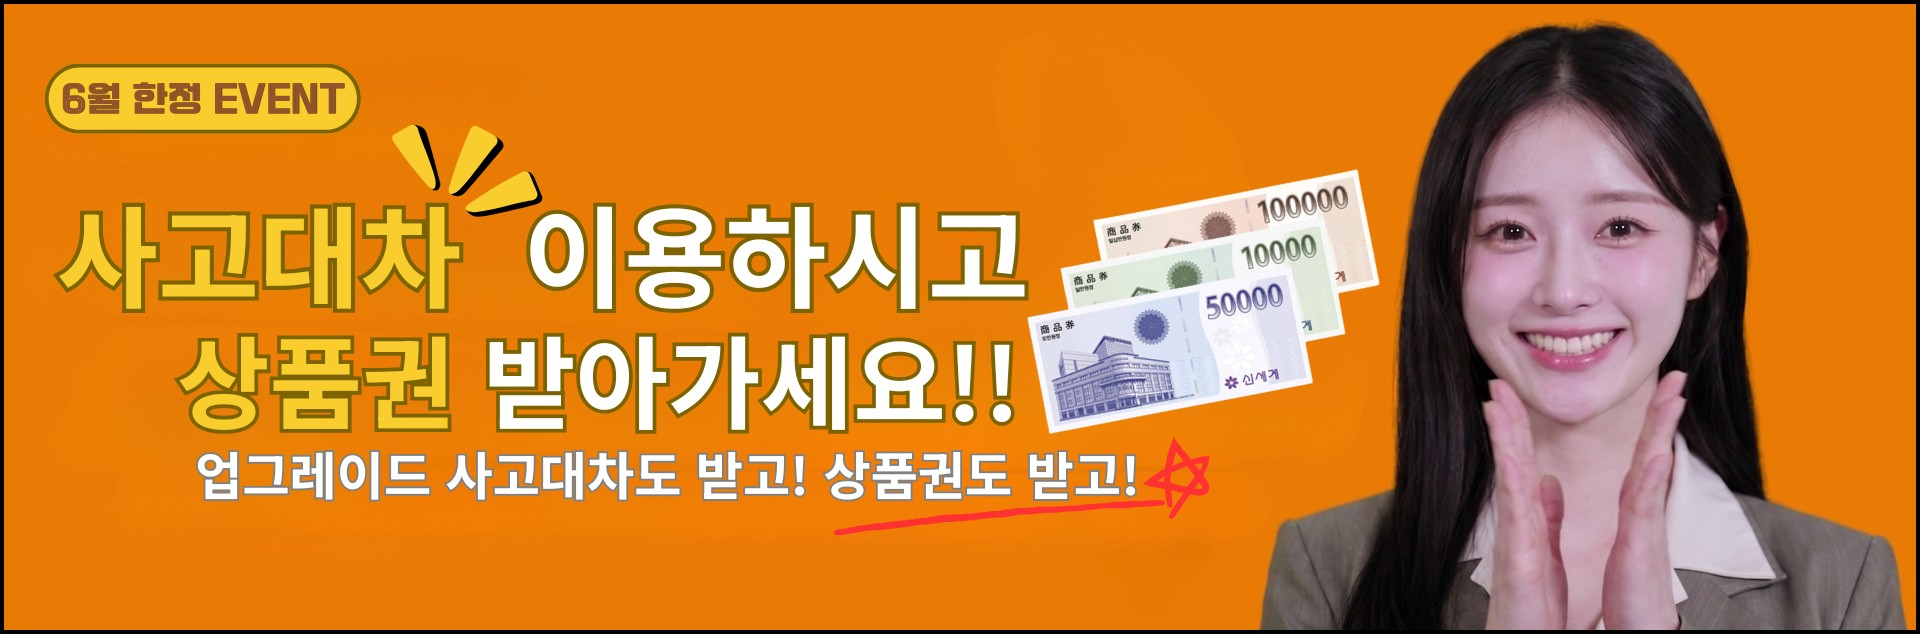
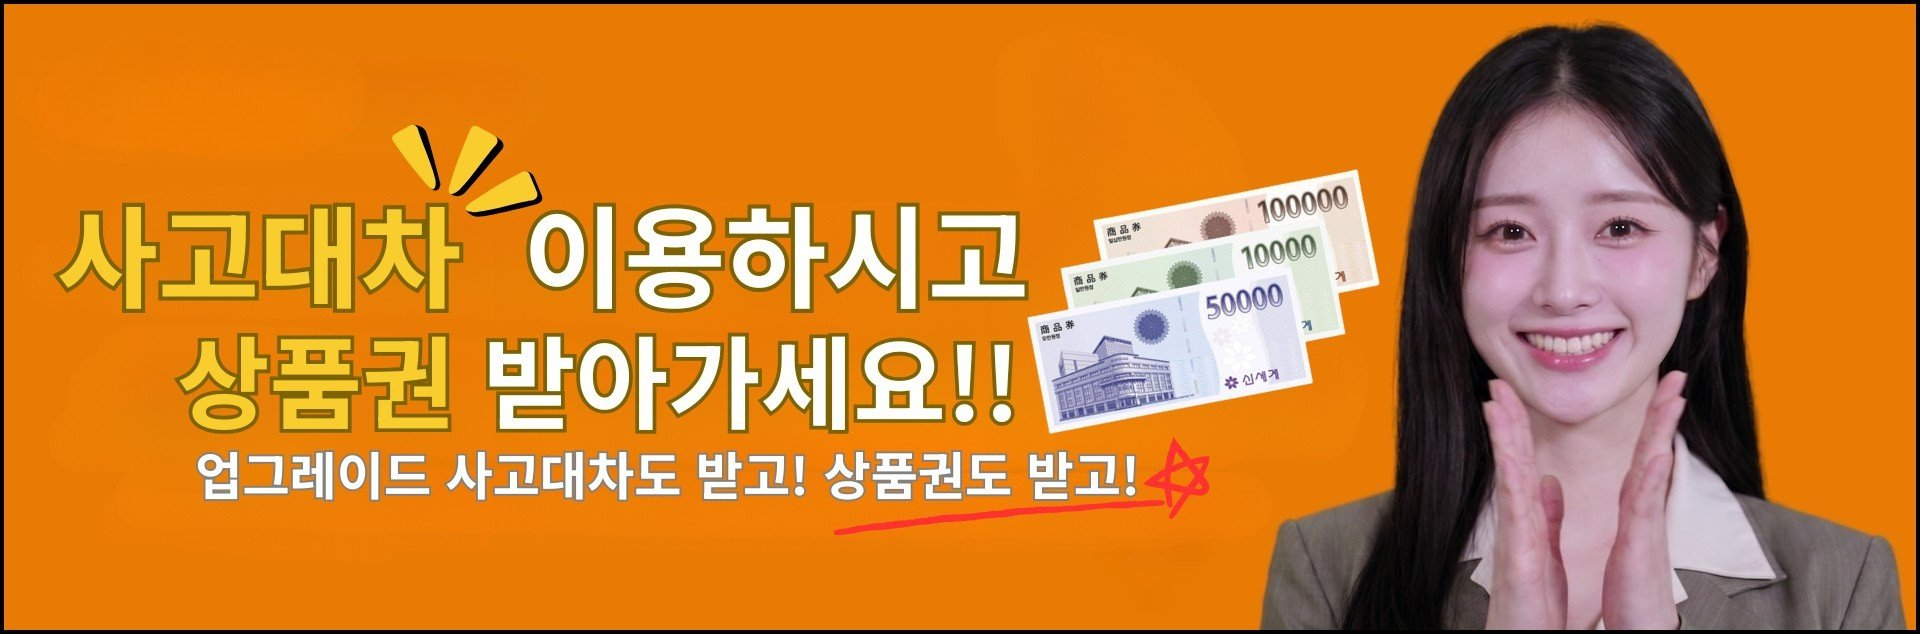
BMW 라인업 전면 교체: 실차 촬영 이미지 16대, 벤츠와 동일한 통일 카드로 개편
- 신규 실차 사진 16장 (Desktop\bmw) 을 750x500 통일 규격으로 재생성 (png+webp 16쌍)
  - 차량: contain 배치, 좌우 잔여 영역: 같은 사진 블러 배경(GaussianBlur 25 + 12% 어둡게)
  - 벤츠 작업(a9b0e96)과 동일한 파이프라인 재현
- 라인업: 5시리즈(화이트/블랙/그레이), 7시리즈(화이트/투톤), 420i, M3(화이트/블루),
  M4, M850, Z4(화이트/퍼플), X5, X6(화이트/블랙), X7 = 16대
- index.html BMW 섹션: 모델별 라벨 행 구조 제거 → 벤츠식 라벨 없는 카드 그리드(mr-multi + mr-name)로 통일
- 구형 BMW 이미지 48개 삭제 (M2/M5/840i/X3 등 라인업 제외 차종 포함), img/x5·bmw 7 등 구경로 정리
- 검증: 로컬 렌더에서 16카드 크기 단일값(152x101@390px), 이미지 16/16 로드, 참조 누락 0 확인

diff --git a/index.html b/index.html
@@ -255,7 +255,7 @@
       <div class="evt-modal-box">
         <button class="evt-close" type="button" aria-label="닫기">&times;</button>
         <div class="evt-card">
-          <div class="evt-hero"><img src="img/event-voucher.jpg" alt="6월 한정 이벤트 - 사고대차 이용하시고 상품권 받아가세요" loading="lazy"></div>
+          <div class="evt-hero"><img src="img/event-voucher.jpg" alt="사고대차 이용하시고 상품권 받아가세요 - 업그레이드 사고대차도 받고 상품권도 받고" loading="lazy"></div>
           <div class="evt-inner">
           <div class="evt-benefits">
             <div class="evt-b">
@@ -406,103 +406,29 @@
             <!-- BMW -->
             <h3 class="vehicle-section-title">BMW</h3>
 
-            <div class="model-row">
-                <h4 class="model-label">5시리즈</h4>
-                <div class="swiper modelSwiper"><div class="swiper-wrapper">
-                    <div class="swiper-slide"><div class="vehicle-card"><div class="vehicle-image"><img src="img/cars/520 신형.webp" alt="BMW 520 신형 화이트" loading="lazy"></div><div class="vehicle-info"><h3 class="vehicle-name">BMW 5시리즈</h3><p class="vehicle-description">화이트</p></div></div></div>
-                    <div class="swiper-slide"><div class="vehicle-card"><div class="vehicle-image"><img src="img/cars/520 신형 검정.webp" alt="BMW 520 신형 블랙" loading="lazy"></div><div class="vehicle-info"><h3 class="vehicle-name">BMW 5시리즈</h3><p class="vehicle-description">블랙</p></div></div></div>
-                </div></div>
-            </div>
-
-            <div class="model-row">
-                <h4 class="model-label">7시리즈</h4>
-                <div class="swiper modelSwiper"><div class="swiper-wrapper">
-                    <div class="swiper-slide"><div class="vehicle-card"><div class="vehicle-image"><img src="img/bmw 7.webp" alt="BMW 7 Series" loading="lazy"><span class="vehicle-badge badge-premium">프리미엄</span></div><div class="vehicle-info"><h3 class="vehicle-name">BMW 7 Series</h3><p class="vehicle-description">BMW의 철학</p></div></div></div>
-                </div></div>
-            </div>
-
-            <div class="model-row">
-                <h4 class="model-label">420i 컨버터블</h4>
-                <div class="swiper modelSwiper"><div class="swiper-wrapper">
-                    <div class="swiper-slide"><div class="vehicle-card"><div class="vehicle-image"><img src="img/cars/BMW 420i 컨버터블_블랙.webp" alt="BMW 420i 컨버터블" loading="lazy"></div><div class="vehicle-info"><h3 class="vehicle-name">BMW 420i 컨버터블</h3><p class="vehicle-description">블랙</p></div></div></div>
-                    <div class="swiper-slide"><div class="vehicle-card"><div class="vehicle-image"><img src="img/cars/BMW 420i 컨버터블_화이트.webp" alt="BMW 420i 컨버터블" loading="lazy"></div><div class="vehicle-info"><h3 class="vehicle-name">BMW 420i 컨버터블</h3><p class="vehicle-description">화이트</p></div></div></div>
-                </div></div>
-            </div>
-
-            <div class="model-row">
-                <h4 class="model-label">M3</h4>
-                <div class="swiper modelSwiper"><div class="swiper-wrapper">
-                    <div class="swiper-slide"><div class="vehicle-card"><div class="vehicle-image"><img src="img/cars/BMW M3 회색.webp" alt="BMW M3 회색" loading="lazy"></div><div class="vehicle-info"><h3 class="vehicle-name">BMW M3</h3><p class="vehicle-description">회색</p></div></div></div>
-                    <div class="swiper-slide"><div class="vehicle-card"><div class="vehicle-image"><img src="img/cars/BMW M3 흰색.webp" alt="BMW M3 흰색" loading="lazy"></div><div class="vehicle-info"><h3 class="vehicle-name">BMW M3</h3><p class="vehicle-description">흰색</p></div></div></div>
-                </div></div>
-            </div>
-
-            <div class="model-row">
-                <h4 class="model-label">M5</h4>
-                <div class="swiper modelSwiper"><div class="swiper-wrapper">
-                    <div class="swiper-slide"><div class="vehicle-card"><div class="vehicle-image"><img src="img/cars/BMW M5 회색.webp" alt="BMW M5 회색" loading="lazy"></div><div class="vehicle-info"><h3 class="vehicle-name">BMW M5</h3><p class="vehicle-description">회색</p></div></div></div>
-                    <div class="swiper-slide"><div class="vehicle-card"><div class="vehicle-image"><img src="img/cars/BMW M5 흰색.webp" alt="BMW M5 흰색" loading="lazy"></div><div class="vehicle-info"><h3 class="vehicle-name">BMW M5</h3><p class="vehicle-description">흰색</p></div></div></div>
-                </div></div>
-            </div>
-
-            <div class="model-row">
-                <h4 class="model-label">Z4 sDrive</h4>
-                <div class="swiper modelSwiper"><div class="swiper-wrapper">
-                    <div class="swiper-slide"><div class="vehicle-card"><div class="vehicle-image"><img src="img/cars/BMW Z4 sDrive 흰색.webp" alt="BMW Z4 sDrive 흰색" loading="lazy"></div><div class="vehicle-info"><h3 class="vehicle-name">BMW Z4 sDrive</h3><p class="vehicle-description">흰색</p></div></div></div>
-                    <div class="swiper-slide"><div class="vehicle-card"><div class="vehicle-image"><img src="img/cars/BMW Z4 sDrive 빨강.webp" alt="BMW Z4 sDrive" loading="lazy"></div><div class="vehicle-info"><h3 class="vehicle-name">BMW Z4 sDrive</h3><p class="vehicle-description">빨강</p></div></div></div>
-                    <div class="swiper-slide"><div class="vehicle-card"><div class="vehicle-image"><img src="img/cars/BMW Z4 sDrive 파랑.webp" alt="BMW Z4 sDrive" loading="lazy"></div><div class="vehicle-info"><h3 class="vehicle-name">BMW Z4 sDrive</h3><p class="vehicle-description">파랑</p></div></div></div>
-                </div></div>
-            </div>
-
-            <div class="lineup-row">
-
-            <div class="model-row">
-                <h4 class="model-label">840i 그란쿠페</h4>
-                <div class="swiper modelSwiper"><div class="swiper-wrapper">
-                    <div class="swiper-slide"><div class="vehicle-card"><div class="vehicle-image"><img src="img/cars/BMW 840i 그란쿠페.webp" alt="BMW 840i 그란쿠페" loading="lazy"></div><div class="vehicle-info"><h3 class="vehicle-name">BMW 840i 그란쿠페</h3><p class="vehicle-description">재고 보유</p></div></div></div>
-                </div></div>
-            </div>
+            <div class="benz-cards">
 
             <div class="model-row mr-multi">
                 <div class="swiper modelSwiper"><div class="swiper-wrapper">
-                    <div class="swiper-slide"><div class="vehicle-card"><div class="vehicle-image"><img src="img/cars/BMW M2쿠페.webp" alt="BMW M2쿠페" loading="lazy"></div><p class="mr-name">M2</p></div></div>
-                    <div class="swiper-slide"><div class="vehicle-card"><div class="vehicle-image"><img src="img/cars/BMW M4컨버터블 컴패티션.webp" alt="BMW M4컨버터블 컴패티션" loading="lazy"></div><p class="mr-name">M4컨버터블</p></div></div>
+                    <div class="swiper-slide"><div class="vehicle-card"><div class="vehicle-image"><img src="img/cars/BMW 5시리즈 화이트.webp" alt="BMW 5시리즈 화이트" loading="lazy"></div><p class="mr-name">5시리즈 화이트</p></div></div>
+                    <div class="swiper-slide"><div class="vehicle-card"><div class="vehicle-image"><img src="img/cars/BMW 5시리즈 블랙.webp" alt="BMW 5시리즈 블랙" loading="lazy"></div><p class="mr-name">5시리즈 블랙</p></div></div>
+                    <div class="swiper-slide"><div class="vehicle-card"><div class="vehicle-image"><img src="img/cars/BMW 5시리즈 그레이.webp" alt="BMW 5시리즈 그레이" loading="lazy"></div><p class="mr-name">5시리즈 그레이</p></div></div>
+                    <div class="swiper-slide"><div class="vehicle-card"><div class="vehicle-image"><img src="img/cars/BMW 7시리즈 화이트.webp" alt="BMW 7시리즈 화이트" loading="lazy"></div><p class="mr-name">7시리즈 화이트</p></div></div>
+                    <div class="swiper-slide"><div class="vehicle-card"><div class="vehicle-image"><img src="img/cars/BMW 7시리즈 투톤.webp" alt="BMW 7시리즈 투톤" loading="lazy"></div><p class="mr-name">7시리즈 투톤</p></div></div>
+                    <div class="swiper-slide"><div class="vehicle-card"><div class="vehicle-image"><img src="img/cars/BMW 420i 화이트.webp" alt="BMW 420i 화이트" loading="lazy"></div><p class="mr-name">420i 화이트</p></div></div>
+                    <div class="swiper-slide"><div class="vehicle-card"><div class="vehicle-image"><img src="img/cars/BMW M3 화이트.webp" alt="BMW M3 화이트" loading="lazy"></div><p class="mr-name">M3 화이트</p></div></div>
+                    <div class="swiper-slide"><div class="vehicle-card"><div class="vehicle-image"><img src="img/cars/BMW M3 블루.webp" alt="BMW M3 블루" loading="lazy"></div><p class="mr-name">M3 블루</p></div></div>
+                    <div class="swiper-slide"><div class="vehicle-card"><div class="vehicle-image"><img src="img/cars/BMW M4 화이트.webp" alt="BMW M4 화이트" loading="lazy"></div><p class="mr-name">M4 화이트</p></div></div>
+                    <div class="swiper-slide"><div class="vehicle-card"><div class="vehicle-image"><img src="img/cars/BMW M850 블랙.webp" alt="BMW M850 블랙" loading="lazy"></div><p class="mr-name">M850 블랙</p></div></div>
+                    <div class="swiper-slide"><div class="vehicle-card"><div class="vehicle-image"><img src="img/cars/BMW Z4 화이트.webp" alt="BMW Z4 화이트" loading="lazy"></div><p class="mr-name">Z4 화이트</p></div></div>
+                    <div class="swiper-slide"><div class="vehicle-card"><div class="vehicle-image"><img src="img/cars/BMW Z4 퍼플.webp" alt="BMW Z4 퍼플" loading="lazy"></div><p class="mr-name">Z4 퍼플</p></div></div>
+                    <div class="swiper-slide"><div class="vehicle-card"><div class="vehicle-image"><img src="img/cars/BMW X5 화이트.webp" alt="BMW X5 화이트" loading="lazy"></div><p class="mr-name">X5 화이트</p></div></div>
+                    <div class="swiper-slide"><div class="vehicle-card"><div class="vehicle-image"><img src="img/cars/BMW X6 화이트.webp" alt="BMW X6 화이트" loading="lazy"></div><p class="mr-name">X6 화이트</p></div></div>
+                    <div class="swiper-slide"><div class="vehicle-card"><div class="vehicle-image"><img src="img/cars/BMW X6 블랙.webp" alt="BMW X6 블랙" loading="lazy"></div><p class="mr-name">X6 블랙</p></div></div>
+                    <div class="swiper-slide"><div class="vehicle-card"><div class="vehicle-image"><img src="img/cars/BMW X7 블랙.webp" alt="BMW X7 블랙" loading="lazy"></div><p class="mr-name">X7 블랙</p></div></div>
                 </div></div>
             </div>
 
-            </div>
-
-            <div class="model-row">
-                <h4 class="model-label">X3 20 xDrive</h4>
-                <div class="swiper modelSwiper"><div class="swiper-wrapper">
-                    <div class="swiper-slide"><div class="vehicle-card"><div class="vehicle-image"><img src="img/cars/BMW X3 20 xDrive.webp" alt="BMW X3 20 xDrive" loading="lazy"></div><div class="vehicle-info"><h3 class="vehicle-name">BMW X3 20 xDrive</h3><p class="vehicle-description">재고 보유</p></div></div></div>
-                    <div class="swiper-slide"><div class="vehicle-card"><div class="vehicle-image"><img src="img/cars/BMW X3 20 xDrive_2.webp" alt="BMW X3 20 xDrive" loading="lazy"></div><div class="vehicle-info"><h3 class="vehicle-name">BMW X3 20 xDrive</h3><p class="vehicle-description">재고 보유</p></div></div></div>
-                </div></div>
-            </div>
-
-            <div class="model-row">
-                <h4 class="model-label">X5</h4>
-                <div class="swiper modelSwiper"><div class="swiper-wrapper">
-                    <div class="swiper-slide"><div class="vehicle-card"><div class="vehicle-image"><img src="img/x5.webp" alt="BMW X5 흰색" loading="lazy"></div><div class="vehicle-info"><h3 class="vehicle-name">BMW X5</h3><p class="vehicle-description">흰색</p></div></div></div>
-                    <div class="swiper-slide"><div class="vehicle-card"><div class="vehicle-image"><img src="img/cars/BMW X5_검정.webp" alt="BMW X5 검정" loading="lazy"></div><div class="vehicle-info"><h3 class="vehicle-name">BMW X5</h3><p class="vehicle-description">검정</p></div></div></div>
-                </div></div>
-            </div>
-
-            <div class="model-row">
-                <h4 class="model-label">X6 xDrive</h4>
-                <div class="swiper modelSwiper"><div class="swiper-wrapper">
-                    <div class="swiper-slide"><div class="vehicle-card"><div class="vehicle-image"><img src="img/cars/BMW X6 xDrive.webp" alt="BMW X6 xDrive" loading="lazy"></div><div class="vehicle-info"><h3 class="vehicle-name">BMW X6 xDrive</h3><p class="vehicle-description">재고 보유</p></div></div></div>
-                    <div class="swiper-slide"><div class="vehicle-card"><div class="vehicle-image"><img src="img/cars/BMW X6 xDrive_2.webp" alt="BMW X6 xDrive" loading="lazy"></div><div class="vehicle-info"><h3 class="vehicle-name">BMW X6 xDrive</h3><p class="vehicle-description">재고 보유</p></div></div></div>
-                    <div class="swiper-slide"><div class="vehicle-card"><div class="vehicle-image"><img src="img/cars/BMW X6 xDrive_검정.webp" alt="BMW X6 검정" loading="lazy"></div><div class="vehicle-info"><h3 class="vehicle-name">BMW X6 xDrive</h3><p class="vehicle-description">검정</p></div></div></div>
-                </div></div>
-            </div>
-
-            <div class="model-row">
-                <h4 class="model-label">X7 xDrive</h4>
-                <div class="swiper modelSwiper"><div class="swiper-wrapper">
-                    <div class="swiper-slide"><div class="vehicle-card"><div class="vehicle-image"><img src="img/cars/BMW X7 xDrive.webp" alt="BMW X7 xDrive" loading="lazy"></div><div class="vehicle-info"><h3 class="vehicle-name">BMW X7 xDrive</h3><p class="vehicle-description">재고 보유</p></div></div></div>
-                    <div class="swiper-slide"><div class="vehicle-card"><div class="vehicle-image"><img src="img/cars/BMW X7 xDrive_검정.webp" alt="BMW X7 검정" loading="lazy"></div><div class="vehicle-info"><h3 class="vehicle-name">BMW X7 xDrive</h3><p class="vehicle-description">검정</p></div></div></div>
-                </div></div>
             </div>
 
             <!-- Audi -->